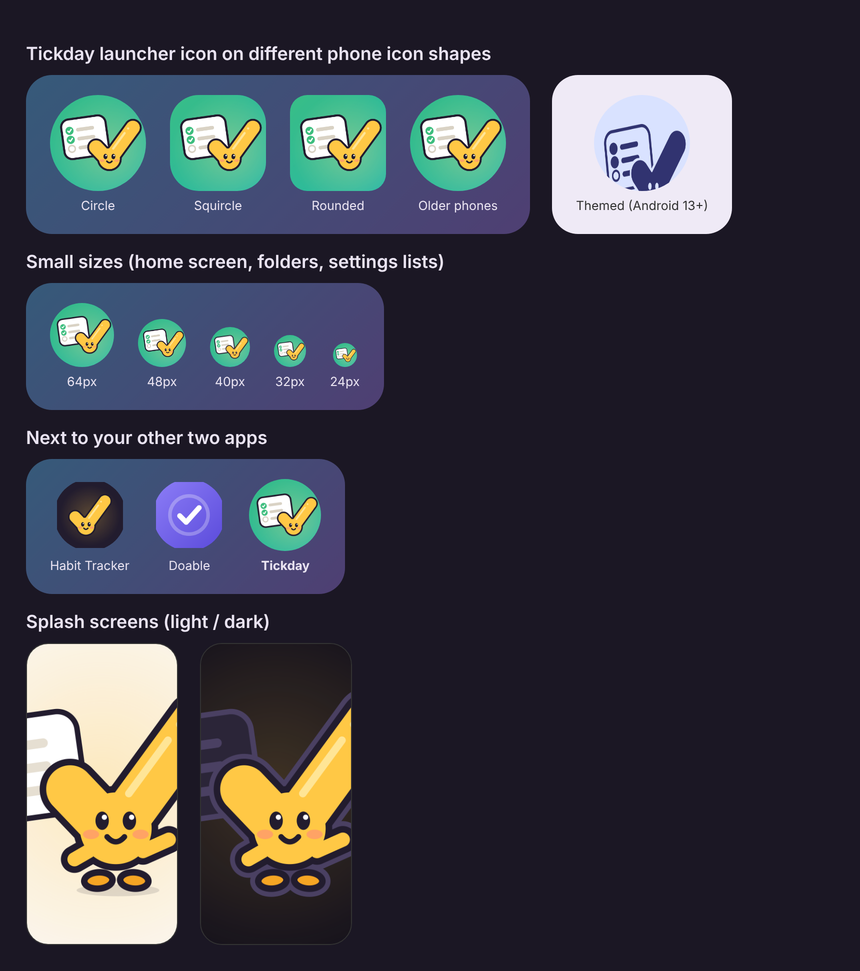
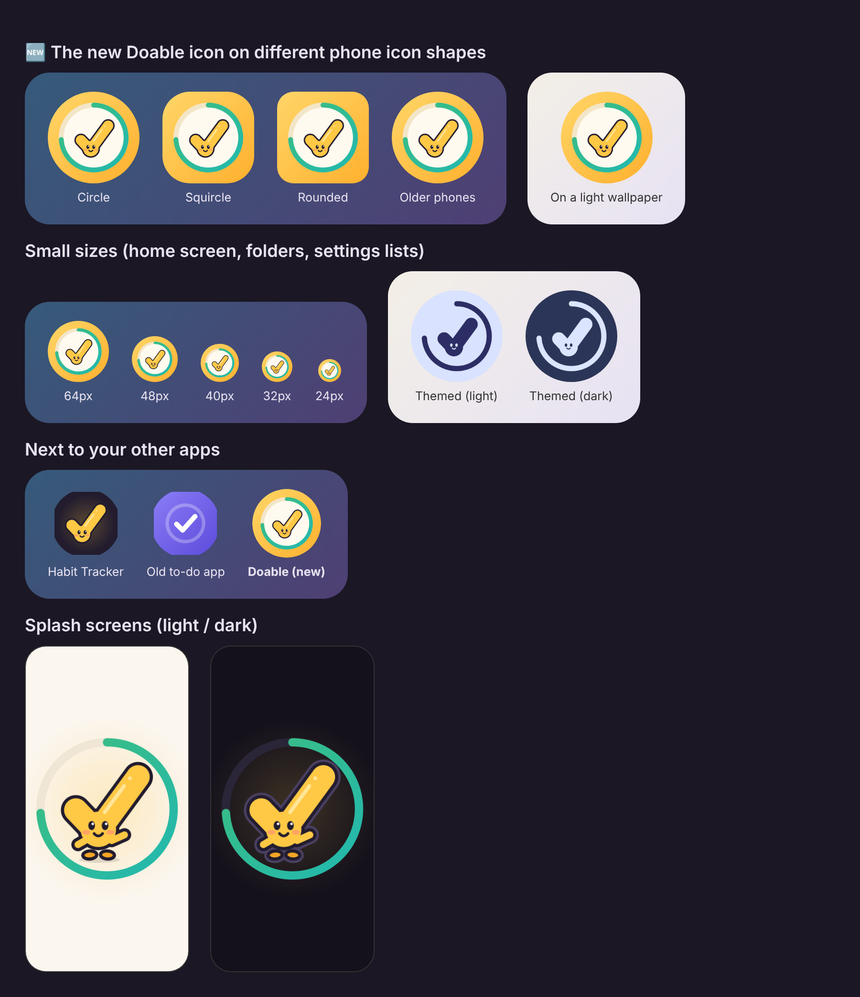
Release as Doable.apk; docs and screenshots for the new name
- CI publishes Doable.apk ("Doable 1.0.N"); stable link
  releases/latest/download/Doable.apk
- README: new name, icon and link; Doable updates Tickday in place
- ARCHITECTURE: backup format 2, storage key move, kept app id + key
- Screenshots retaken with the new name and icon

Claude-Session: https://claude.ai/code/session_0143PPL7LxzRWNH2cnFJAiby

diff --git a/README.md b/README.md
@@ -1,33 +1,35 @@
-# ✅ Tickday: habits + to-dos, with Tick
+# ✅ Doable: habits + to-dos, with Tick
 
-**One free, offline Android app for your habits AND your to-do list.** Tickday merges the **Habit Tracker** (with Tick the mascot) and **Doable** (the to-do app) into one app with one design, one place for your data, one backup file and reminders for both. No ads, no account, no subscription. Everything stays on your phone.
+**One free, offline Android app for your habits AND your to-do list.** Doable merges the **Habit Tracker** (with Tick the mascot) and the old to-do app into one app with one design, one place for your data, one backup file and reminders for both. No ads, no account, no subscription. Everything stays on your phone.
+
+<img src="docs/screenshots/icon.png" width="420" alt="The Doable icon: Tick inside a green progress ring on sunflower yellow">
 
 <img src="docs/screenshots/today.png" alt="Today: habits and tasks together, a task being ticked off, a perfect day, first run, the add chooser and dark mode">
 
 ## 📲 Install on your Android phone
 
 **Download link (always the newest version):**
-https://github.com/tobyhome12345-commits/To-do-and-habit-merge/releases/latest/download/Tickday.apk
+https://github.com/tobyhome12345-commits/To-do-and-habit-merge/releases/latest/download/Doable.apk
 
-1. Open the link above in **Chrome** on your phone. `Tickday.apk` downloads.
-2. Tap the download notification, or open **Files → Downloads → Tickday.apk**.
+1. Open the link above in **Chrome** on your phone. `Doable.apk` downloads.
+2. Tap the download notification, or open **Files → Downloads → Doable.apk**.
 3. If Android says *"For your security, your phone isn't allowed to install unknown apps from this source"*, tap **Settings**, turn on **Allow from this source**, then go back.
 4. Tap **Install**. If Google Play Protect warns about an unknown app, tap **More details → Install anyway** (it says this for any app that isn't from the Play Store).
-5. Open **Tickday** 🎉 When you set your first reminder, tap **Allow** so Tickday can send notifications.
+5. Open **Doable** 🎉 When you set your first reminder, tap **Allow** so Doable can send notifications.
 
-Tickday has its own app id (`com.tickday.app`), so it installs **next to** Habit Tracker and Doable. It doesn't replace them.
+**Already have Tickday?** Doable *is* Tickday with a new name and icon: installing `Doable.apk` updates it in place and keeps all your habits, tasks and settings. (It installs next to the Habit Tracker and the old to-do app, never over them.)
 
 **Updating:** open the same link again and install. It installs over the old version and **keeps all your habits and tasks**, because every build is signed with the same key.
 
 ### 🚚 Bring your old data across
 
-Android keeps each app's data private, so Tickday can't read the old apps directly. Use backups instead:
+Android keeps each app's data private, so Doable can't read the old apps directly. Use backups instead:
 
 1. In **Habit Tracker**: Settings → **Export**. Save the file (Drive, Files…).
-2. In **Doable**: Settings → **Export backup**. Save that file too.
-3. In **Tickday**: tap **Import a backup** on the welcome card (or ⚙ Settings → **Import backup**), pick a file and choose **Merge**. Do it once for each file.
+2. In the **old to-do app**: Settings → **Export backup**. Save that file too.
+3. In **Doable**: tap **Import a backup** on the welcome card (or ⚙ Settings → **Import backup**), pick a file and choose **Merge**. Do it once for each file.
 
-Habit Tracker files only touch your habits, and Doable files only touch your tasks. Your theme and colours stay as they are. Tickday keeps a safety copy before every import (Settings → **Undo last import or reset**).
+Habit Tracker files only touch your habits, and old to-do files only touch your tasks. Your theme and colours stay as they are. Doable keeps a safety copy before every import (Settings → **Undo last import or reset**).
 
 ## ✨ What's inside
 
@@ -38,11 +40,11 @@ Habit Tracker files only touch your habits, and Doable files only touch your tas
 - Counted goals (💧 8 glasses), flexible schedules (every day, certain days, every X days, X times a week), time of day
 - Streaks that understand schedules, 🏆 best streaks, milestone celebrations, Tick's five levels
 - Notes, pause, 🏖 vacation mode, archive, hold-and-drag to reorder, Note/Undo after a check-off
-- **New:** a daily **reminder** per habit (the Habit Tracker's reminders were removed because they didn't work; Tickday uses the reliable reminder engine from Doable)
+- **New:** a daily **reminder** per habit (the Habit Tracker's reminders were removed because they didn't work; Doable uses the reliable reminder engine from the to-do app)
 
 <img src="docs/screenshots/habits.png" alt="Habits, dark habits, calendar, stats and the habit sheet">
 
-**✅ To-Do** (everything from Doable):
+**✅ To-Do** (everything from the old to-do app):
 - Today / Upcoming / Lists switch, plus list pages, smart views (Overdue, Completed, All) and search with filters
 - Quick-add that understands `tomorrow 5pm`, `fri`, `!high`, `#School`, `every mon`…
 - Subtasks, notes, priorities, emoji, repeating tasks, real reminders with ✓ Done and Snooze
@@ -50,7 +52,7 @@ Habit Tracker files only touch your habits, and Doable files only touch your tas
 
 <img src="docs/screenshots/todo.png" alt="To-Do: today, upcoming, lists, a list, quick-add and the task sheet">
 
-**⚙ Settings** (one page for everything, behind the gear): theme (auto/light/dark), accent colour (Classic, presets including Doable's violet, or any custom colour, contrast-checked), week start, reduce motion, haptics, habit and task reminder switches, default task reminder, vacation mode, archived habits, export, import, undo last import, and reset (habits, tasks or both).
+**⚙ Settings** (one page for everything, behind the gear): theme (auto/light/dark), accent colour (Classic, presets including the old to-do app's violet, or any custom colour, contrast-checked), week start, reduce motion, haptics, habit and task reminder switches, default task reminder, vacation mode, archived habits, export, import, undo last import, and reset (habits, tasks or both).
 
 <img src="docs/screenshots/settings.png" alt="Settings and the import sheet">
 
@@ -58,7 +60,7 @@ Habit Tracker files only touch your habits, and Doable files only touch your tas
 
 ## 🔔 Reminders
 
-Habit and task reminders are real Android notifications, scheduled by the system at the exact minute (even when Tickday is closed), with **✓ Done** and **Snooze 10 min** buttons. Habit reminders only fire on days the habit is due, and stay quiet once it's done, paused or on vacation. They survive restarts and reboots. Try **Settings → Send a test notification**.
+Habit and task reminders are real Android notifications, scheduled by the system at the exact minute (even when Doable is closed), with **✓ Done** and **Snooze 10 min** buttons. Habit reminders only fire on days the habit is due, and stay quiet once it's done, paused or on vacation. They survive restarts and reboots. Try **Settings → Send a test notification**.
 
 <img src="docs/screenshots/reminders.png" width="600" alt="Reminder row in the habit sheet, notification settings and the planned reminders">
 
@@ -83,6 +85,6 @@ npm run assets       # re-render the app icon, splash screens and favicon
 npx cap sync android
 ```
 
-### ⚠ The signing key
+### ⚠ The signing key and app id
 
-`android/app/tickday-release.jks` and `android/keystore.properties` are committed **on purpose**, so GitHub Actions signs every build with the same key. **Never delete or regenerate them.** If the key changes, Android refuses to install updates over the existing app, and you'd have to uninstall it (export a backup first!). Also, don't rename the workflow file, because its run number is the app's version code.
+`android/app/tickday-release.jks` and `android/keystore.properties` are committed **on purpose**, so GitHub Actions signs every build with the same key. **Never delete or regenerate them.** The app id stays `com.tickday.app` (from when the app was called Tickday) for the same reason: changing either one would stop updates installing over the app on your phone. If the key changes, Android refuses to install updates over the existing app, and you'd have to uninstall it (export a backup first!). Also, don't rename the workflow file, because its run number is the app's version code.

diff --git a/docs/ARCHITECTURE.md b/docs/ARCHITECTURE.md
@@ -1,9 +1,9 @@
-# Tickday architecture
+# Doable architecture
 
-Tickday merges two apps that were already built the same way (React + TypeScript + Vite + Capacitor 8):
+Doable (first released as "Tickday") merges two apps that were already built the same way (React + TypeScript + Vite + Capacitor 8):
 
 - **Habit Tracker** (`Habit-Tracker-App`, tag `v1.0.7`): the "Garden notebook" design, Tick, schedules, streaks, calendar, stats.
-- **Doable** (`To-do-game`): lists, repeating tasks, smart views, quick-add, undo and a reminder engine that works.
+- **the old to-do app, Doable v1** (`To-do-game`): lists, repeating tasks, smart views, quick-add, undo and a reminder engine that works.
 
 The code from both was moved in, not rewritten. Anything duplicated now has a single shared copy.
 
@@ -46,9 +46,9 @@ AppData = {
 }
 ```
 
-It's stored as one JSON string in Android's private app storage (Capacitor Preferences), using Doable's crash-safe persistence: a debounced autosave, an immediate save when the app goes to the background, a "last good" copy that's used if the main copy can't be read, and a safety copy before every import or reset.
+It's stored as one JSON string (key `doable.data`) in Android's private app storage (Capacitor Preferences). On the first start after the update from Tickday, the data is moved from the old `tickday.data` key, which is kept as a safety net, using Doable's crash-safe persistence: a debounced autosave, an immediate save when the app goes to the background, a "last good" copy that's used if the main copy can't be read, and a safety copy before every import or reset.
 
-**Migrations** (`data/migrate.ts`): `MIGRATIONS[n]` turns a version-n document into n+1, so older saves and backups are upgraded one step at a time. A file from a *newer* Tickday is refused with a friendly message. Each half is then cleaned by the old app's own validation code (`normalizeState` for habits, `cleanTodo` for tasks), so the repairs both apps already did still happen.
+**Migrations** (`data/migrate.ts`): `MIGRATIONS[n]` turns a version-n document into n+1, so older saves and backups are upgraded one step at a time. A file from a *newer* Doable is refused with a friendly message. Each half is then cleaned by the old app's own validation code (`normalizeState` for habits, `cleanTodo` for tasks), so the repairs both apps already did still happen.
 
 **One store** (`data/store.ts`, Zustand):
 - Task actions are Doable's `transact()` functions, including the precise undo stack.
@@ -57,11 +57,11 @@ It's stored as one JSON string in Android's private app storage (Capacitor Prefe
 
 ## Backups
 
-- **Export:** one file, `{ app: 'Tickday', format: 1, version, exportedAt, appVersion, data }`, through the share sheet (phone) or as a download (browser).
+- **Export:** one file, `{ app: 'Doable', format: 2, version, exportedAt, appVersion, data }`, through the share sheet (phone) or as a download (browser).
 - **Import** (`detect()`) recognises:
-  - Tickday backups, whether wrapped in that envelope or bare;
-  - Doable backups (`{ app: 'Doable', format: 1, data }` or bare Doable data);
-  - Habit Tracker backups (`{ app: 'habit-tracker', version: 1 | 2, … }`). For v1 files, the old per-habit reminder becomes a Tickday reminder time.
+  - Doable backups, and files saved while the app was called Tickday (`{ app: 'Tickday', format: 1, … }`);
+  - the old to-do app's backups (`{ app: 'Doable', format: 1, data: { tasks, lists } }` or bare data). They're told apart from new Doable files by their shape: a whole document has `habits` and `todo` halves;
+  - Habit Tracker backups (`{ app: 'habit-tracker', version: 1 | 2, … }`). For v1 files, the old per-habit reminder becomes a Doable reminder time.
 - **Merge or replace** (`applyImport`): an old single-app file only touches its own half and never changes the theme or accent.
   - Tasks merge Doable's way: matched by id, and the newest edit wins.
   - Habits are matched by id. Each day keeps the higher count, your notes win (the backup's fill the gaps), new habits are added, and vacations are combined.
@@ -92,6 +92,6 @@ The Habit Tracker's "Garden notebook" design system (`styles/global.css`) is the
 
 `.github/workflows/android.yml` runs on every push:
 
-`npm ci` → `npm test` → `npm run build` → `npx cap sync android` → `gradlew assembleRelease` (versionCode = run number) → `apksigner verify` → GitHub Release `v1.0.N` with `Tickday.apk`, marked latest.
+`npm ci` → `npm test` → `npm run build` → `npx cap sync android` → `gradlew assembleRelease` (versionCode = run number) → `apksigner verify` → GitHub Release `v1.0.N` with `Doable.apk`, marked latest.
 
-The release key (`android/app/tickday-release.jks` + `android/keystore.properties`) is committed so every build has the same signature.
+The release key (`android/app/tickday-release.jks` + `android/keystore.properties`) is committed so every build has the same signature. The app id stays `com.tickday.app` from the Tickday releases: with the same id and key, Doable installs as an update over Tickday and keeps its data. The Java namespace is `com.doable.tick`.
